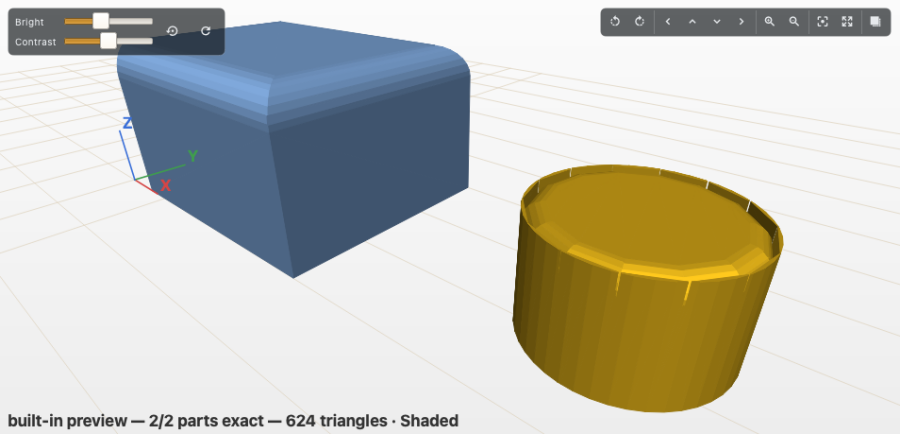
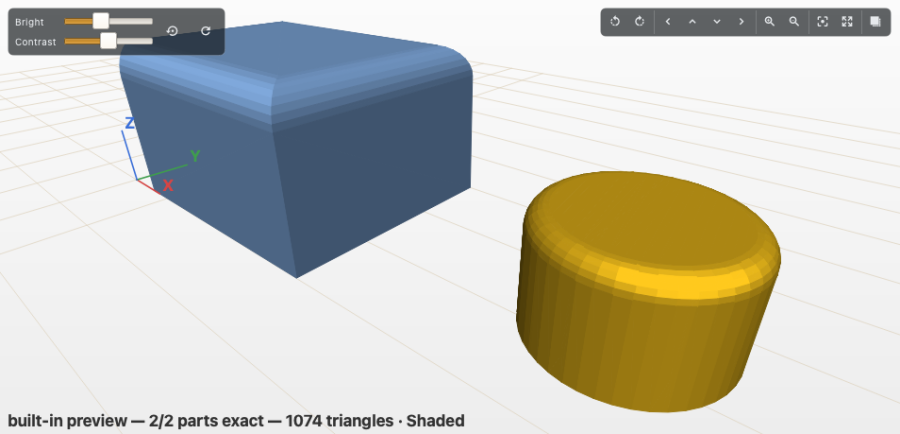
fix: baked nodes always bake at full detail and the document's $fn
The sketch view tessellates parts under a detail cap to draw their
outlines. A fillet (or any baked node) first asked for during that
pass baked its surface from the coarse mesh and cached it, and codegen
then wrote the coarse result into the program: a cutter built round a
12-gon rim straddled the 45-gon OpenSCAD drew and left a saw-tooth. The
bake now clears the detail cap and uses the $fn in force, and the cache
key carries that $fn.

diff --git a/tests/test_fillet.py b/tests/test_fillet.py
@@ -186,6 +186,37 @@ def test_the_fillet_round_trips_through_its_program(app, tmp_path):
     assert [c.type for c in back.children] == ["cube"]
 
 
+def test_a_coarse_2d_outline_pass_never_bakes_a_coarse_cutter(app):
+    """The sketch view tessellates parts under a detail cap; the cut
+    written into the program must still be built round the full rim
+    (a coarse one left saw-teeth in the exact render)."""
+    doc = DocumentModel()
+    doc.set_global_fn(True, 45)
+    cyl = doc.add_node("cylinder", dict(radius_bottom=10.0, radius_top=10.0,
+                                        height=12.0, segments=24))
+    node = doc.wrap_nodes([cyl], "fillet")
+    node.params.update(radius=2.0, edges=[[10.0, 0.0, 12.0, 9.6593,
+                                           2.5882, 12.0]])
+    from khervecad import bake
+    fillet._CACHE.clear()
+    mesh.selected_world_tris(doc.root, {node.id}, detail=12,
+                             fn=doc.effective_fn())          # the 2D view
+    # then the program: codegen bakes under the document's $fn
+    mesh._set_fn(45)
+    try:
+        after_coarse = fillet.baked(node, bake._codegen_env(node))
+    finally:
+        mesh._set_fn(None)
+    full = fillet.compute(mesh.tessellate(cyl, fn=45),
+                          node.params["edges"], 2.0)
+    assert full["cuts"] and after_coarse["cuts"]
+    assert len(after_coarse["cuts"][0]) == len(full["cuts"][0])
+    assert len(full["cuts"][0]) == 45 * 2 * (2 + 6)        # a 45-ring
+    # and what the program carries is that 45-ring cutter
+    code = doc.to_scad()
+    assert code.count("[") > 45 * 8                         # its points
+
+
 def test_fillet_validation(app):
     doc = DocumentModel()
     doc.set_global_fn(False)

diff --git a/khervecad/bake.py b/khervecad/bake.py
@@ -356,14 +356,30 @@ def _compute(node, env) -> list:
 
 
 def baked(node, env):
-    """(points, faces, triangles) of a baked node, cached by content."""
-    from . import document
-    key = json.dumps([document.node_to_dict(node),
+    """(points, faces, triangles) of a baked node, cached by content.
+
+    Always computed at full detail and at the segment count in force
+    (the preview's $fn, or codegen's): the 2D view tessellates parts
+    under a detail cap, and a mesh baked coarse there would otherwise
+    be served from the cache into the program."""
+    from . import document, mesh
+    from . import model as model_mod
+    fn = mesh._FN_OVERRIDE
+    if fn is None:
+        fn = model_mod._FN_OVERRIDE
+    key = json.dumps([document.node_to_dict(node), fn,
                       sorted((k, repr(v)) for k, v in env.items())],
                      sort_keys=True, default=str)
     hit = _CACHE.get(key)
     if hit is None:
-        tris = _compute(node, env)
+        saved, saved_detail = mesh._FN_OVERRIDE, mesh._DETAIL
+        mesh._set_fn(fn)
+        mesh._DETAIL = None
+        try:
+            tris = _compute(node, env)
+        finally:
+            mesh._set_fn(saved)
+            mesh._DETAIL = saved_detail
         points, faces = to_polyhedron(tris)
         hit = _CACHE[key] = (points, faces, tris)
         while len(_CACHE) > _CACHE_SIZE:

diff --git a/khervecad/fillet.py b/khervecad/fillet.py
@@ -505,13 +505,18 @@ def baked(node, env) -> dict:
     hit = _CACHE.get(key)
     if hit is None:
         p = node.params
-        saved = mesh._FN_OVERRIDE
+        saved, saved_detail = mesh._FN_OVERRIDE, mesh._DETAIL
+        # always at full detail: the 2D view tessellates parts under a
+        # detail cap, and a cutter baked round a coarse rim would be
+        # served from the cache to the program and miss the fine one
         mesh._set_fn(fn)
+        mesh._DETAIL = None
         try:
             src = [tri for tri, _c, _s in mesh._children_mesh(
                 node, env, None, frozenset(), False)]
         finally:
             mesh._set_fn(saved)
+            mesh._DETAIL = saved_detail
         result = compute(src, p.get("edges") or [],
                          _num(p.get("radius", 2.0), env, 2.0),
                          str(p.get("kind", "round")),
